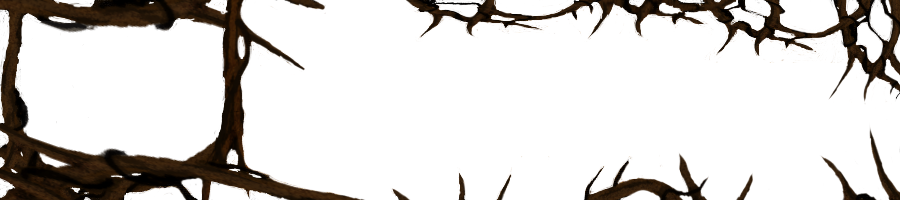
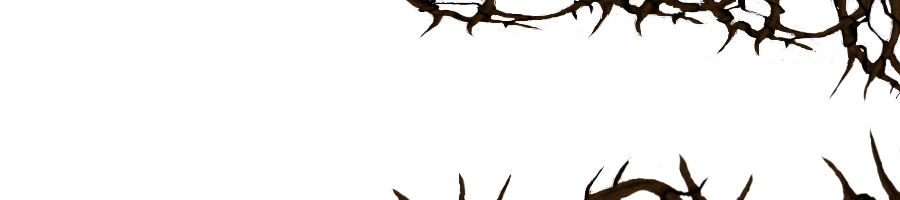
Fixed the mini map panel resizing issue. It now has a layered panel which displays the border and mini map image.

Changed region(s): [[0.0, 0.0, 0.4044, 1.0], [0.3111, 0.27, 0.3422, 0.36], [0.3111, 0.0, 0.3733, 0.06]]

diff --git a/src/GUI/MiniMapBorder.java b/src/GUI/MiniMapBorder.java
@@ -1,0 +1,30 @@
+package GUI;
+
+import java.awt.Dimension;
+import java.awt.Graphics;
+import java.awt.image.BufferedImage;
+
+import javax.swing.JPanel;
+
+import tools.GlobalConstants;
+import tools.ImageLoader;
+
+public class MiniMapBorder extends JPanel {
+	
+	private BufferedImage backgroundImage;
+	
+	public MiniMapBorder() {
+		this.setOpaque(false);
+		/*Initialize the image for the mini map border*/
+		backgroundImage = ImageLoader.load(GlobalConstants.GUI_FILEPATH + "minimapBorder.png");	
+	
+	}
+
+  @Override
+  protected void paintComponent(Graphics g) {
+    super.paintComponent(g);
+    // paint the background image and scale it to fill the entire space
+    g.drawImage(backgroundImage, 0, 0, getWidth(), getHeight(), this);
+  }
+	
+}

diff --git a/src/GUI/MiniMapPanel.java b/src/GUI/MiniMapPanel.java
@@ -14,8 +14,6 @@ public class MiniMapPanel extends JPanel {
 	private BufferedImage backgroundImage;
 	
 	public MiniMapPanel() {
-		/*set the size of this panel to be size of the image*/
-		this.setPreferredSize(new Dimension(375,200));
 		this.setOpaque(true);
 		/*Initialize the image for the inventory panel*/
 		backgroundImage = ImageLoader.load(GlobalConstants.GUI_FILEPATH + "minimap.png");	
@@ -27,7 +25,7 @@ public class MiniMapPanel extends JPanel {
 	  protected void paintComponent(Graphics g) {
 	    super.paintComponent(g);
 	    // paint the background image and scale it to fill the entire space
-	    g.drawImage(backgroundImage, 0, 0, 375, 200, this);
+	    g.drawImage(backgroundImage, 0, 0, getWidth(), getHeight(), this);
 	  }
 	
 }

diff --git a/src/GUI/MiniMapLayeredPane.java b/src/GUI/MiniMapLayeredPane.java
@@ -1,0 +1,22 @@
+package GUI;
+
+import java.awt.Dimension;
+
+import javax.swing.JButton;
+import javax.swing.JLayeredPane;
+
+public class MiniMapLayeredPane extends JLayeredPane{
+
+	
+	public MiniMapLayeredPane() {
+		/*Declare and initialise a new mini map panel and set the layering position underneath */
+		MiniMapPanel miniMap = new MiniMapPanel();
+		miniMap.setBounds(20,15,230, 165);
+		this.add(miniMap,new Integer(0),0);
+		
+		/*Declare and initialise a new mini map border panel and set the layering position on top */
+		MiniMapBorder miniMapBorder = new MiniMapBorder();
+		miniMapBorder.setBounds(0,0,400,200);
+		this.add(miniMapBorder,new Integer(1),0);
+	}
+}

diff --git a/src/GUI/MainPanelMaster.java b/src/GUI/MainPanelMaster.java
@@ -42,7 +42,7 @@ public class MainPanelMaster extends JPanel {
 	/* Declare all the panels on this panel */
 	private InventoryPanel inventoryPanel;
 	private ButtonsPanel buttonsPanel;
-	private MiniMapPanel miniMapPanel;
+	private MiniMap miniMapPanel;
 	private TileInformationPanel tileInfoPanel;
 
 	public MainPanelMaster(MainFrame frame) {
@@ -60,9 +60,9 @@ public class MainPanelMaster extends JPanel {
 
 
 		/*Initialize the minimap panel and palce it bottom left */
-		miniMapPanel = new MiniMapPanel();
+		miniMapPanel = new MiniMap();
 		c.gridx = 0;
-		c.gridy =0;
+		c.gridy = 0;
 		this.add(miniMapPanel,c);
 
 

diff --git a/src/GUI/MiniMap.java b/src/GUI/MiniMap.java
@@ -1,0 +1,19 @@
+package GUI;
+
+import java.awt.BorderLayout;
+import java.awt.Dimension;
+
+import javax.swing.JPanel;
+
+public class MiniMap extends JPanel{
+	
+	public MiniMap() {
+		//this.setSize(400,200); 
+		this.setPreferredSize(new Dimension(400,200));
+		MiniMapLayeredPane miniMapLayeredPane = new MiniMapLayeredPane();
+		this.setLayout(new BorderLayout());
+		this.add(miniMapLayeredPane,BorderLayout.CENTER);
+		this.setOpaque(false);
+		this.setVisible(true);
+	}
+}
